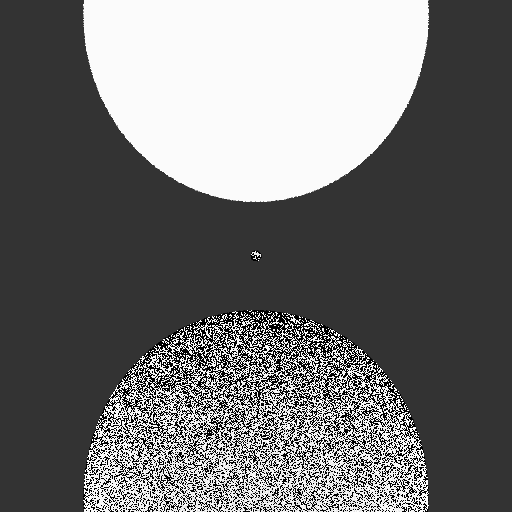
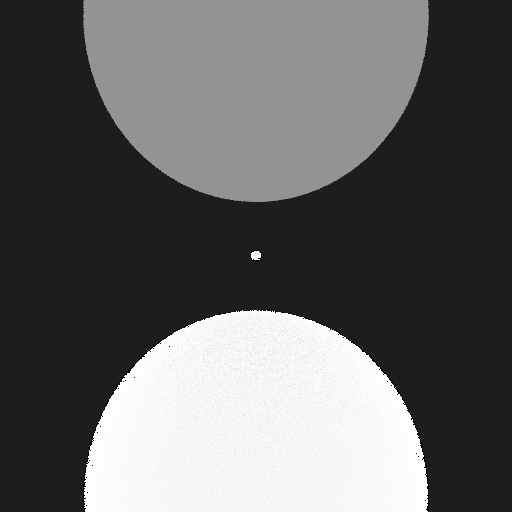
WIP again

diff --git a/src/integrator.rs b/src/integrator.rs
@@ -18,9 +18,11 @@ pub struct PathTracingIntegrator {
 
 impl Integrator for PathTracingIntegrator {
     fn color(&self, r: Ray) -> RGBColor {
+        let russian_roulette = false;
         let mut ray = r;
         let mut color: RGBColor = RGBColor::ZERO;
         let mut beta = RGBColor::new(1.0, 1.0, 1.0);
+        let sampler: Box<dyn Sampler> = Box::new(RandomSampler::new());
         for _ in 0..self.max_bounces {
             match (self.world.hit(ray, 0.0, INFINITY)) {
                 Some(hit) => {
@@ -30,14 +32,22 @@ impl Integrator for PathTracingIntegrator {
                     };
                     let cos_i = ray.direction.normalized() * hit.normal.normalized();
                     let material: &Box<dyn Material> = &self.world.materials[id as usize];
-                    let bounce =
-                        material.generate(&hit, Sample2D::new_random_sample(), ray.direction);
+                    let bounce = material.generate(&hit, &sampler, ray.direction);
                     let emission = material.emission(&hit, ray.direction, bounce);
                     let pdf = material.value(&hit, ray.direction, bounce);
                     assert!(pdf >= 0.0, "{}", pdf);
                     color += beta * emission;
                     if bounce.norm() < 0.0000001 || pdf < 0.000001 {
                         break;
+                    }
+                    if russian_roulette {
+                        let attenuation = Vec3::from(beta).norm();
+                        if attenuation < 1.0 && 0.001 < attenuation {
+                            if random() > attenuation {
+                                break;
+                            }
+                            beta = beta / attenuation;
+                        }
                     }
                     let bounce = bounce.normalized();
                     beta *= material.f(&hit, ray.direction, bounce) * cos_i / pdf;

diff --git a/src/main.rs b/src/main.rs
@@ -41,8 +41,8 @@ fn construct_renderer(settings: &Settings, world: World) -> Box<dyn Renderer> {
 }
 
 fn construct_scene() -> World {
-    let lambertian = Box::new(Lambertian::new(RGBColor::new(0.9, 0.9, 0.9)));
-    let diffuse_light = Box::new(DiffuseLight::new(RGBColor::new(5.0, 5.0, 5.0)));
+    let lambertian = Box::new(Lambertian::new(RGBColor::new(0.5, 0.5, 0.5)));
+    let diffuse_light = Box::new(DiffuseLight::new(RGBColor::new(1.0, 1.0, 1.0)));
     let world = World {
         bvh: Box::new(HittableList::new(vec![
             Box::new(Sphere::new(30.0, Point3::new(0.0, 0.0, 40.0), Some(0))),
@@ -140,8 +140,22 @@ fn main() -> () {
         // do stuff with film here
         let mut img: image::RgbImage =
             image::ImageBuffer::new(film.width as u32, film.height as u32);
+
+        let mut max_luminance = 0.0;
+        for y in 0..film.height {
+            for x in 0..film.width {
+                let color = film.buffer[(y * film.width + x) as usize];
+                let lum = Vec3::from(color).norm();
+                if lum > max_luminance {
+                    max_luminance = lum;
+                }
+            }
+        }
         for (x, y, pixel) in img.enumerate_pixels_mut() {
             let mut color = film.buffer[(y * film.width as u32 + x) as usize];
+
+            //apply tonemap here
+            color = color / max_luminance;
 
             *pixel = image::Rgb([
                 (color.r * 255.0) as u8,

diff --git a/src/math/sample.rs b/src/math/sample.rs
@@ -5,6 +5,12 @@ pub struct Sample1D {
     pub x: f32,
 }
 
+impl Sample1D {
+    pub fn new_random_sample() -> Self {
+        Sample1D { x: random() }
+    }
+}
+
 #[derive(Debug)]
 pub struct Sample2D {
     pub x: f32,
@@ -24,4 +30,40 @@ pub struct Sample3D {
     pub x: f32,
     pub y: f32,
     pub z: f32,
+}
+
+impl Sample3D {
+    pub fn new_random_sample() -> Self {
+        Sample3D {
+            x: random(),
+            y: random(),
+            z: random(),
+        }
+    }
+}
+
+pub trait Sampler {
+    fn draw_1d(&self) -> Sample1D;
+    fn draw_2d(&self) -> Sample2D;
+    fn draw_3d(&self) -> Sample3D;
+}
+
+pub struct RandomSampler {}
+
+impl RandomSampler {
+    pub const fn new() -> RandomSampler {
+        RandomSampler {}
+    }
+}
+
+impl Sampler for RandomSampler {
+    fn draw_1d(&self) -> Sample1D {
+        Sample1D::new_random_sample()
+    }
+    fn draw_2d(&self) -> Sample2D {
+        Sample2D::new_random_sample()
+    }
+    fn draw_3d(&self) -> Sample3D {
+        Sample3D::new_random_sample()
+    }
 }

diff --git a/src/materials/lambertian.rs b/src/materials/lambertian.rs
@@ -16,8 +16,9 @@ impl PDF for Lambertian {
     fn value(&self, hit: &HitRecord, wi: Vec3, wo: Vec3) -> f32 {
         (wi * hit.normal).abs() / PI
     }
-    fn generate(&self, hit: &HitRecord, s: Sample2D, wi: Vec3) -> Vec3 {
-        random_cosine_direction(s)
+    fn generate(&self, hit: &HitRecord, s: &Box<dyn Sampler>, wi: Vec3) -> Vec3 {
+        // random_cosine_direction(s)
+        hit.normal + random_in_unit_sphere(s.draw_3d())
     }
 }
 

diff --git a/src/materials/diffuse_light.rs b/src/materials/diffuse_light.rs
@@ -16,7 +16,7 @@ impl PDF for DiffuseLight {
     fn value(&self, hit: &HitRecord, wi: Vec3, wo: Vec3) -> f32 {
         0.0
     }
-    fn generate(&self, hit: &HitRecord, s: Sample2D, wi: Vec3) -> Vec3 {
+    fn generate(&self, hit: &HitRecord, s: &Box<dyn Sampler>, wi: Vec3) -> Vec3 {
         Vec3::ZERO
     }
 }

diff --git a/src/material/pdf.rs b/src/material/pdf.rs
@@ -3,5 +3,5 @@ use crate::math::*;
 
 pub trait PDF {
     fn value(&self, hit: &HitRecord, wi: Vec3, wo: Vec3) -> f32;
-    fn generate(&self, hit: &HitRecord, s: Sample2D, wi: Vec3) -> Vec3;
+    fn generate(&self, hit: &HitRecord, s: &Box<dyn Sampler>, wi: Vec3) -> Vec3;
 }
